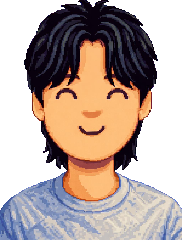
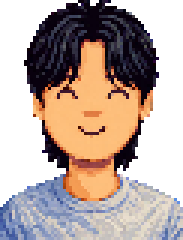
Update: トップの絵のドットを大きくし、カードのbutton構造を直す
絵のドットが細かすぎて、名前のドット文字と粒の大きさが
そろっていなかった。61x80まで落としてから3倍に戻し、
1ドットを3pxにした。ファビコンも同じ粗さにしている。

あわせて、worksのカードのbuttonを直接flexにしていたのを、
中にspanを1枚はさむ形に変えた。Safariではbuttonをflexに
しても中身が正しく並ばないことがあるため。Chromiumでの
見た目は変わっていない（差0.01%を確認）。

diff --git a/index.html b/index.html
@@ -184,12 +184,18 @@
     そのままでは表示されないので、見た目を変えたいときはこの中を直す。
   -->
   <template id="tpl-works-card">
+    <!--
+      buttonを直接flexにするとSafariで中身の並びが崩れるため、
+      内側にspanを1枚はさんで、そちらを縦並びの箱にしている。
+    -->
     <button type="button" class="works-item">
-      <span class="works-img"><img alt="" loading="lazy" /></span>
-      <span class="works-body">
-        <span class="works-name"></span>
-        <span class="works-info"></span>
-        <span class="works-tags"></span>
+      <span class="works-inner">
+        <span class="works-img"><img alt="" loading="lazy" /></span>
+        <span class="works-body">
+          <span class="works-name"></span>
+          <span class="works-info"></span>
+          <span class="works-tags"></span>
+        </span>
       </span>
     </button>
   </template>

diff --git a/css/style.css b/css/style.css
@@ -469,8 +469,7 @@ img {
    説明やタグの行数が違っても枠の下端が揃うよう、
    縦に伸ばして余りは説明側で吸収する */
 .works-item {
-  display: flex;
-  flex-direction: column;
+  display: block;
   width: 100%;
   height: 100%;
   padding: 0;
@@ -487,6 +486,13 @@ img {
 .works-item:hover {
   transform: translate(-2px, -2px);
   box-shadow: 4px 4px 0 var(--line);
+}
+
+/* buttonの中に1枚はさんだ箱。ここで縦に積む */
+.works-inner {
+  display: flex;
+  flex-direction: column;
+  height: 100%;
 }
 
 .works-body {
